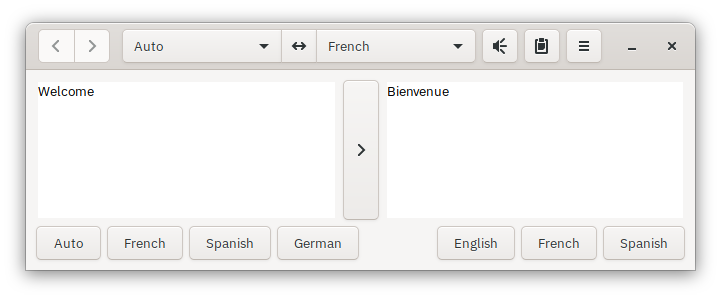
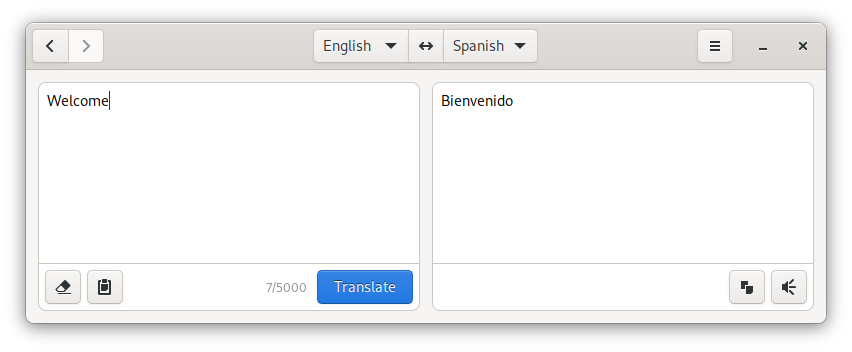
Update sceenshot and README

Changed region(s): [[0.0305, 0.0602, 0.9764, 0.9331], [0.5187, 0.2709, 0.6408, 0.3311], [0.4882, 0.4816, 0.5187, 0.5117]]

diff --git a/README.md b/README.md
@@ -1,17 +1,15 @@
-![Dialect icon](data/com.github.gi_lom.dialect.svg?raw=true)
+<img height="128" src="data/com.github.gi_lom.dialect.svg" align="left"/>
 
 # Dialect
 
-A translation app for GTK environments based on Google Translate.
-
-## Preview
+A translation app for GNOME based on Google Translate.
 
 ![Dialect](preview.png?raw=true)
 
 ## Features
 
 - Translation based on the [googletrans](https://github.com/ssut/py-googletrans) Python API, an unofficial API for Google Translate
-- Translation history (up to 10 translations, you can open the script and easily edit such number if you prefer more)
+- Translation history
 - Automatic language detection
 - Text to speech
 - Clipboard button
@@ -24,7 +22,7 @@ Available soon on Flathub.
 
 ### AUR
 
-Arch-based distro users can install it from [AUR](https://aur.archlinux.org/packages/dialect/).
+Arch-based distro users can install the latest git revision from the [AUR](https://aur.archlinux.org/packages/dialect-git/).
 
 ## Building
 
@@ -40,7 +38,7 @@ Arch-based distro users can install it from [AUR](https://aur.archlinux.org/pack
 - Googletrans `python-googletrans`
 - gTTS `python-gtts`
 
-You can install python dependencies from pip:
+If official packages are not available for any of the python dependencies, you can install them from pip:
 
 ```bash
 pip install googletrans gtts
